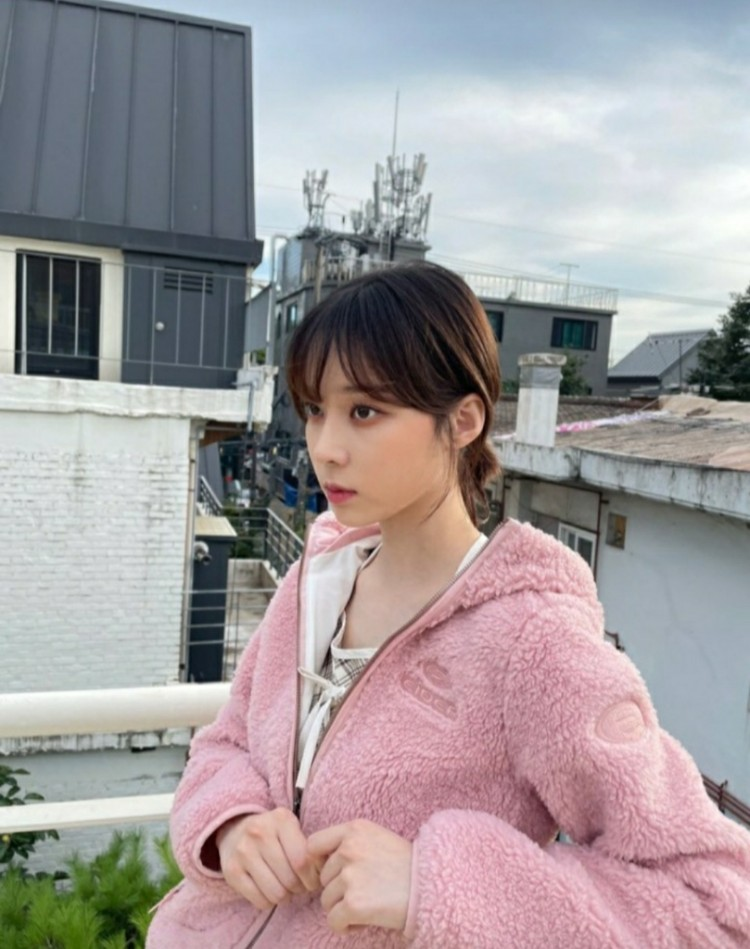
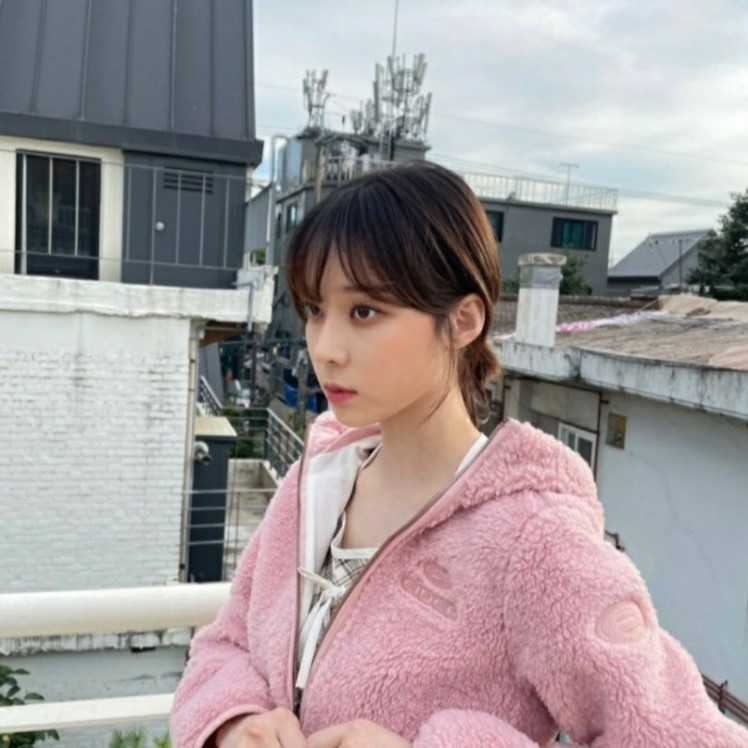
blending two images in one window

diff --git a/face_landmark_detection.py b/face_landmark_detection.py
@@ -3,6 +3,7 @@ import os
 import dlib
 import glob
 import cv2
+import numpy as np
 
 ESC_KEY = 27
 
@@ -31,11 +32,18 @@ predictor = dlib.shape_predictor("shape_predictor_68_face_landmarks.dat")
 #create window
 cv2.namedWindow('Face_1')
 cv2.namedWindow('Face_2')
+cv2.namedWindow('Combine')
 
 #load two images    
 img1 = dlib.load_rgb_image("./me.jpg")      
-img2 = dlib.load_rgb_image("./winter.jpg")      
+img2 = dlib.load_rgb_image("./winter.jpg")
 
+#match picture size
+width=img1.shape[1]
+height=img1.shape[0]
+img2=cv2.resize(img2, (width, height))
+
+#eye detecting, img1
 cvImg1 = swapRGB2BGR(img1, img1)    
 dets1 = detector(img1, 1)
 
@@ -74,11 +82,10 @@ for k, d in enumerate(dets1):
                        
     cv2.imshow('Face_1', cvImg1)
 
+#eye detecting, img2
 cvImg2 = swapRGB2BGR(img2, img2)    
 dets2 = detector(img2, 1)
 
-print("Number of faces detected: {}".format(len(dets2)))
-    
 left_x_2=0
 left_y_2=0
 right_x_2=0
@@ -111,6 +118,17 @@ for k, d in enumerate(dets2):
     cv2.circle(cvImg2, (int(right_x_2/6),int(right_y_2/6)), 3, (0, 0, 255), -1)
                        
 cv2.imshow('Face_2', cvImg2)
+
+#blending
+alpha=0.5
+img3=img1*alpha+img2*(1-alpha)
+img3=img3.astype(np.uint8)
+
+#show img3
+cvImg3 = swapRGB2BGR(img3, img3) 
+cv2.imshow('Combine', cvImg3)
+
+#break if 
 while True:
     if cv2.waitKey(0) == ESC_KEY:
         break;
